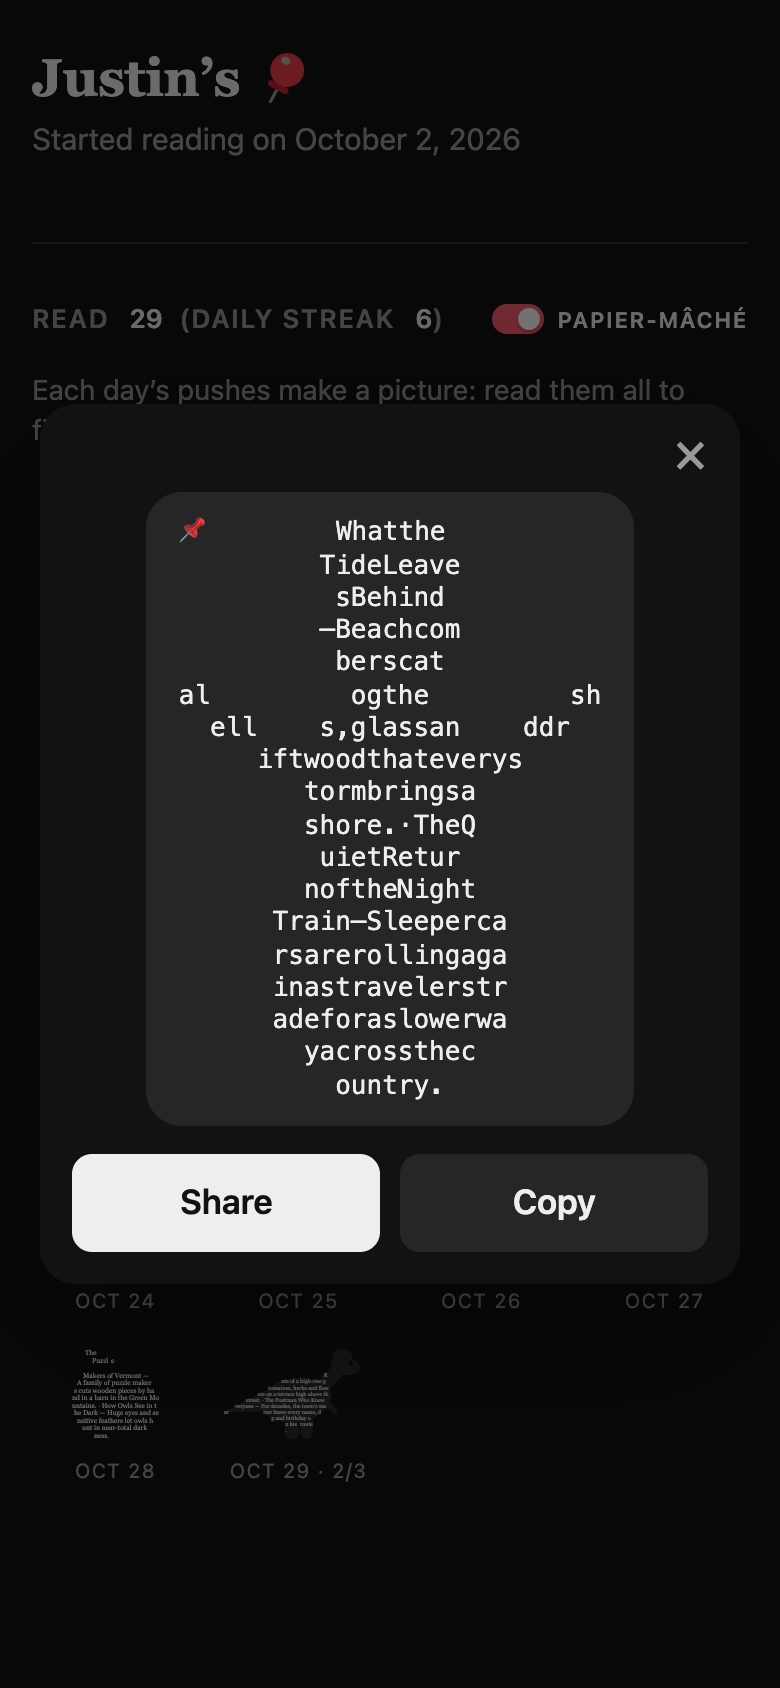
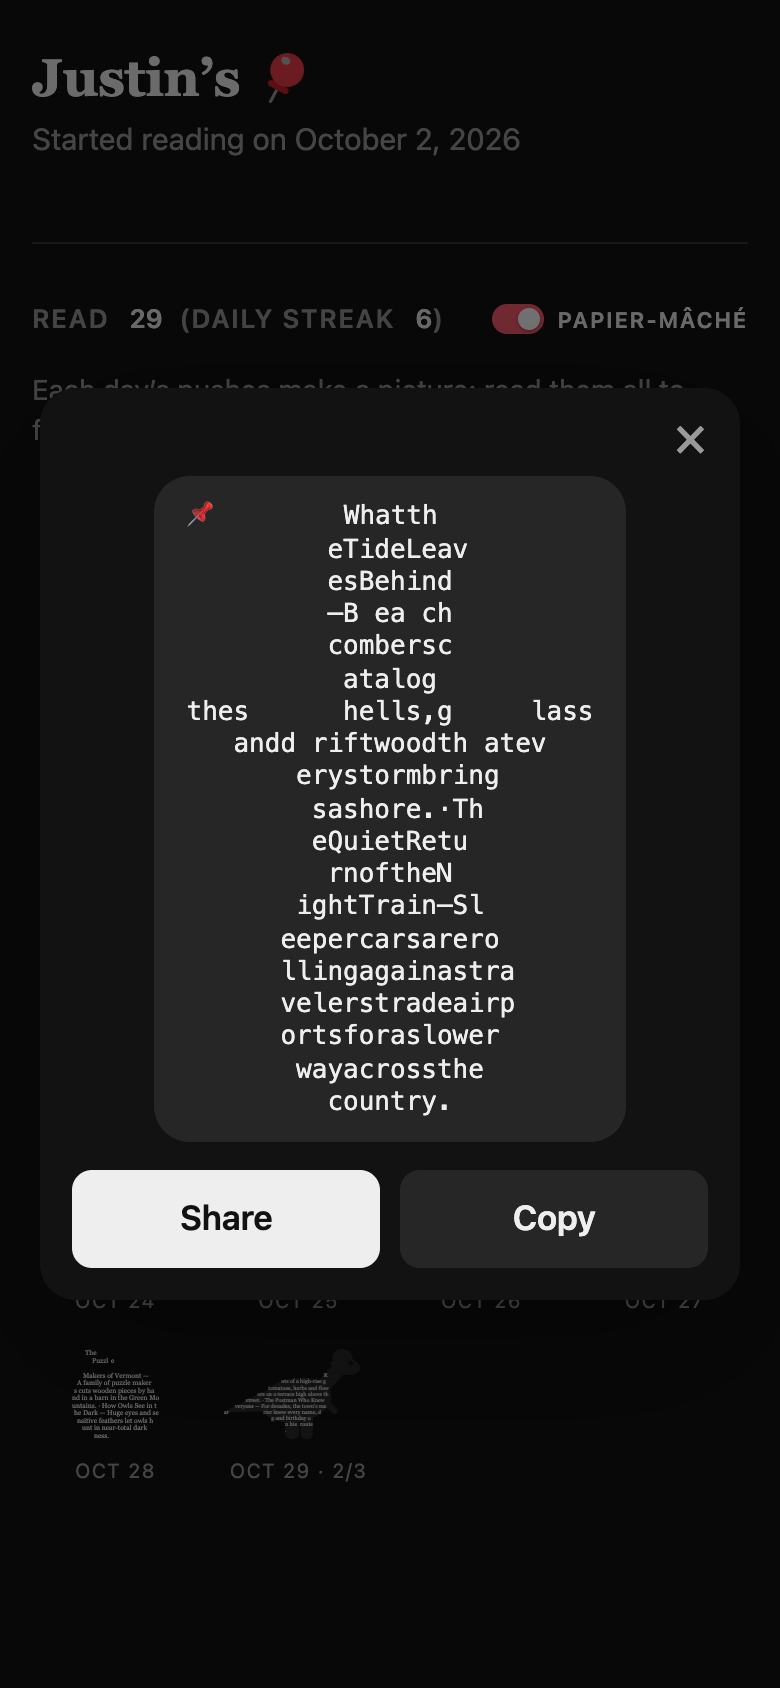
Shared text keeps whole sentences: grid fitted to the words (about a thousand width / coverage / character-height grids, an exact match picked by seed); on busy days whole abstract sentences are left out, never single words

diff --git a/src/pushpin/cards.py b/src/pushpin/cards.py
@@ -688,56 +688,61 @@ function draw(canvas, text, built, flip, animate, kind, delay) {
 // Tapping a dinosaur opens it as text to paste in any chat: the dinosaur as its headline's letters
 // on a character grid, with spaces around it and a pin in the top left corner. It lines up in a
 // monospace font; in a chat's proportional one it leans and wobbles, which is part of the charm.
-const COLS = 32;
+const COLS = 32;  // the widest that reads well in a chat bubble; wider only when nothing narrower fits
 function textDino(day, kind) {
   const w = 400, h = 256, on = silhouette(w, h, day.flip, kind);
   let x0 = w, x1 = 0, y0 = h, y1 = 0;  // crop to the shape
   for (let y = 0; y < h; y++) for (let x = 0; x < w; x++) if (on(x, y)) {
     x0 = Math.min(x0, x); x1 = Math.max(x1, x); y0 = Math.min(y0, y); y1 = Math.max(y1, y);
   }
-  const grid = cols => {  // which cells of a cols-wide grid are inside the shape
-    const cw = (x1 - x0 + 1) / cols, ch = cw * 2, rows = Math.round((y1 - y0 + 1) / ch);  // a character is about twice as tall as wide
-    const cell = (c, r) => {  // inside when a good part of the cell is, so legs and spikes keep a letter
-      let n = 0, t = 0;
-      for (let y = Math.floor(y0 + r * ch); y < Math.min(y1 + 1, y0 + (r + 1) * ch); y++)
-        for (let x = Math.floor(x0 + c * cw); x < Math.min(x1 + 1, x0 + (c + 1) * cw); x++) { t++; if (on(x, y)) n++; }
-      return t && n / t > 0.3;
-    };
-    const cells = []; let count = 0;
-    for (let r = 0; r < rows; r++) { const row = []; for (let c = 0; c < cols; c++) { const v = cell(c, r); row.push(v); count += v; } cells.push(row); }
-    return {cells, count};
+  // how much of any rectangle is inside the shape, at once (a summed-area table over the crop)
+  const bw = x1 - x0 + 1, bh = y1 - y0 + 1, sat = new Float64Array((bw + 1) * (bh + 1));
+  for (let y = 0; y < bh; y++) for (let x = 0; x < bw; x++)
+    sat[(y + 1) * (bw + 1) + x + 1] = (on(x0 + x, y0 + y) ? 1 : 0) + sat[y * (bw + 1) + x + 1] + sat[(y + 1) * (bw + 1) + x] - sat[y * (bw + 1) + x];
+  const area = (xa, ya, xb, yb) => sat[yb * (bw + 1) + xb] - sat[ya * (bw + 1) + xb] - sat[yb * (bw + 1) + xa] + sat[ya * (bw + 1) + xa];
+  // a grid cols wide, with characters `tall` times as tall as wide (about 2 in a chat), whose cells
+  // are inside the shape when more than `share` of them is
+  const grid = (cols, share, tall) => {
+    const cw = bw / cols, ch = cw * tall, rows = Math.round(bh / ch), cells = [];
+    let count = 0;
+    for (let r = 0; r < rows; r++) {
+      const row = [], ya = Math.floor(r * ch), yb = Math.min(bh, Math.floor((r + 1) * ch));
+      for (let c = 0; c < cols; c++) {
+        const xa = Math.floor(c * cw), xb = Math.min(bw, Math.floor((c + 1) * cw)), t = (xb - xa) * (yb - ya);
+        const v = t > 0 && area(xa, ya, xb, yb) / t > share;
+        row.push(v); count += v;
+      }
+      cells.push(row);
+    }
+    return {cells, count, cols};
   };
-  // Each title and abstract word at most once, no spaces inside the shape (so it has no holes),
-  // starting with the first title and ending on the period. The widest grid the words can fill,
-  // then abstract words from the middle of each abstract dropped (its first and last stay, so each
-  // still starts and ends a sentence) until the letters fill the shape exactly.
-  const parts = day.parts.map(p => ({title: p.title.replace(/\\s+/g, ''), words: p.words.map(x => x.replace(/\\s+/g, ''))}));
-  const join = () => parts.map(p => p.title + (p.words.length ? '—' + p.words.filter(Boolean).join('') : '')).join('·');
-  const pool = [];  // the words that may go: [part, word, random order]
+  // Whole sentences only, each once: every title, each followed by its whole abstract, starting with
+  // the first title and ending on the period, no spaces inside the shape (so it has no holes). The
+  // shape fits the words, not the other way round: out of hundreds of grids (width, how much of a
+  // cell must be inside, how tall a character is), one whose cells match the letters exactly, picked
+  // at random among those (seeded, so it's the same each time and differs between readers). If the
+  // words are more than the widest grid holds, whole sentences of the abstracts are left out (random
+  // ones, only as many as needed), never single words.
   const r = rng(day.seed + ':share');
-  parts.forEach((p, i) => p.words.forEach((_, j) => { if (j > 0 && j < p.words.length - 1) pool.push([i, j, r()]); }));
-  pool.sort((a, b) => a[2] - b[2]);
-  let total = join().length;
-  const least = total - pool.reduce((n, [i, j]) => n + parts[i].words[j].length, 0);
-  let g = null;
-  for (let cols = COLS; cols >= 10 && !g; cols--) { const t = grid(cols); if (t.count <= total && t.count >= least) g = t; }
-  g ??= grid(10);
-  const kept = [];
-  for (const [i, j] of pool) {
-    const n = parts[i].words[j].length;
-    if (total - n >= g.count) { parts[i].words[j] = ''; total -= n; } else kept.push([i, j, n]);
-  }
-  // a few letters over: drop kept middle words that add up to exactly that many (subset sum)
-  const over = total - g.count, best = new Map([[0, []]]);
-  for (const k of kept) for (const [sum, picks] of [...best]) {
-    const next = sum + k[2];
-    if (next <= over && !best.has(next)) best.set(next, [...picks, k]);
-  }
-  for (const [i, j, n] of best.get(over) || []) { parts[i].words[j] = ''; total -= n; }
-  let letters = join();
-  if (letters.length !== g.count) letters = letters.slice(0, g.count - 1).padEnd(g.count - 1, '·') + '.';  // no exact fit: still end on a period
+  const parts = day.parts.map(p => ({title: p.title.replace(/\\s+/g, ''),
+    sentences: p.words.join(' ').split(/(?<=[.!?]["”’)]?)\\s+(?=[A-Z0-9“"‘(])/).map(x => x.replace(/\\s+/g, '')).filter(Boolean)}));
+  const last = () => { const p = parts[parts.length - 1]; return p.sentences.length ? p.sentences[p.sentences.length - 1] : p.title; };
+  const join = () => parts.map(p => p.title + (p.sentences.length ? '—' + p.sentences.join('') : '')).join('·')
+    + (/[.!?]["”’]?$/.test(last()) ? '' : '.');
+  const grids = [];
+  for (let cols = 10; cols <= 40; cols++) for (const share of [0.2, 0.25, 0.3, 0.35, 0.4, 0.45, 0.5])
+    for (const tall of [1.8, 1.9, 2, 2.1, 2.2]) grids.push(grid(cols, share, tall));
+  const most = Math.max(...grids.map(t => t.count));
+  const order = parts.flatMap((p, i) => p.sentences.map(x => [i, x, r()])).sort((a, b) => a[2] - b[2]);
+  for (const [i, x] of order) { if (join().length <= most) break; parts[i].sentences = parts[i].sentences.filter(y => y !== x); }
+  const letters = join();
+  // an exact fit (a chat-friendly width first), else the closest grid with room to spare
+  const exact = grids.filter(t => t.count === letters.length), narrow = exact.filter(t => t.cols <= COLS);
+  const pick = narrow.length ? narrow : exact;
+  const g = pick.length ? pick[Math.floor(r() * pick.length)]
+    : grids.filter(t => t.count >= letters.length).sort((a, b) => a.count - b.count)[0] || grids[grids.length - 1];
   let i = 0;
-  const lines = g.cells.map(row => row.map(v => v ? letters[i++] : ' ').join('').trimEnd());
+  const lines = g.cells.map(row => row.map(v => v ? letters[i++] ?? ' ' : ' ').join('').trimEnd());
   while (lines.length && !lines[0]) lines.shift();
   while (lines.length && !lines[lines.length - 1]) lines.pop();
   // the pin in the top left corner, on the shape's top line: it takes about two columns

diff --git a/docs/demo-screens.md b/docs/demo-screens.md
@@ -56,20 +56,23 @@ still to fill; a finished one is just the words.
 
 Tapping a finished picture opens it as text, ready to paste into any chat: the shape spelled out
 in the letters of that day's read articles, with plain spaces around it and 📌 in the top left
-corner, on the top line. It starts at the beginning of the day's first title and ends on a period,
-and nothing repeats. Every title appears once, followed by its abstract's first and last words and
-as many of the words in between as fit: random middle words are dropped until the letters fill the
-shape exactly. The grid is as wide as the words can fill, up to 32 characters. The spaces between
+corner, on the top line. It starts at the beginning of the day's first title and ends on a period.
+Nothing repeats and nothing is cut mid-sentence: every title appears once, followed by its whole
+abstract. The shape is fitted to the words rather than the other way round. Out of about a
+thousand grids (width up to 40 characters, preferring 32 or less for a chat bubble; how much of a
+cell must be inside the shape; how tall a character is), it picks one whose cells match the
+letters exactly. A grid holds roughly 250 to 350 letters, so on a busy day some abstract sentences
+are left out (random ones, only as many as needed), but never single words. The spaces between
 words are dropped inside the shape so it has no holes. **Share** opens the phone's share sheet
 with the text, and **Copy** copies it. Browsers without a share sheet only show Copy. Unfinished
 pictures can't be shared yet.
 
-Each picture is unique. A generator seeded with the reader and the day picks which abstract words
-are kept and which way the shape faces, and each reader has their own order of shapes. Different
-days get different pictures, and so do two readers who read the same articles on the same day. A
-repeat isn't strictly impossible, but with billions of variants it's vanishingly unlikely. On the
-demo all 18 finished days are different, and two test readers with identical reads differed on
-every day.
+Each picture is unique. A generator seeded with the reader and the day picks which way the shape
+faces, which of the exactly fitting grids is used and, on a busy day, which sentences are left
+out, and each reader has their own order of shapes. Different days get different pictures, and so
+do two readers who read the same articles on the same day. A repeat isn't strictly impossible, but
+it's vanishingly unlikely. On the demo all 18 finished days are different, and two test readers
+with identical reads differed on every day.
 
 It lines up in a monospace font. In a chat's proportional font the rows shift a little, and that's
 fine.
@@ -79,35 +82,36 @@ fine.
 What the demo's first two pictures share as, the snowman and a Brontosaurus:
 
 ```
-📌        Whatthe
-         TideLeave
-          sBehind
-         —Beachcom
-          berscat
-al         ogthe         sh
-  ell    s,glassan    ddr
-     iftwoodthateverys
-        tormbringsa
-        shore.·TheQ
-         uietRetur
-        noftheNight
-      Train—Sleeperca
-      rsarerollingaga
-      inastravelerstr
-      adeforaslowerwa
-        yacrossthec
-          ountry.
+📌        Whatth
+         eTideLeav
+         esBehind
+         —B ea ch
+         combersc
+          atalog
+thes      hells,g     lass
+   andd riftwoodth atev
+       erystormbring
+        sashore.·Th
+        eQuietRetu
+         rnoftheN
+       ightTrain—Sl
+      eepercarsarero
+      llingagainastra
+      velerstradeairp
+      ortsforaslower
+       wayacrossthe
+         country.
 ```
 
 ```
-📌 ACityL
-   earnsto
-      LoveIt
-        sRain—Afteryear
-         soffloods,onecityb
-         uiltparksthatsoakups
-          tormsandturnedgrayday
-          sinto draw.
+📌 ACity
+   Learnst
+      oLove  ItsRai
+        n—Afteryearsoff
+         loods,onecitybuil
+         tparksthatsoakupsto
+         rmsandturnedgraydays
+         intoa draw.
 ```
 
 ## Before the first push: the welcome page
